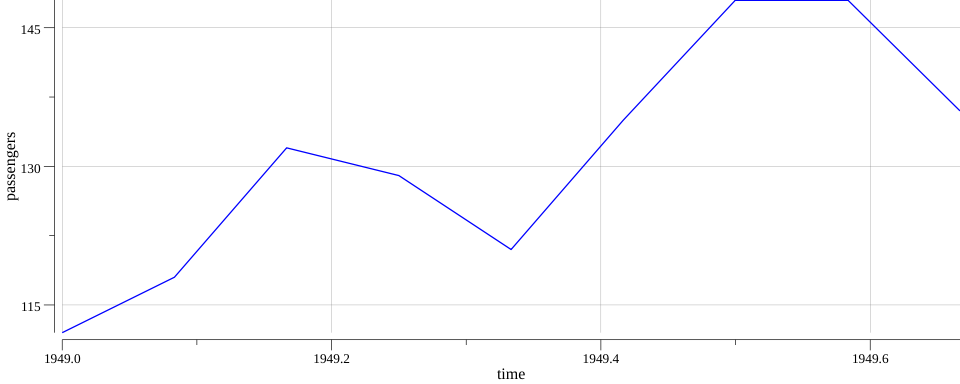
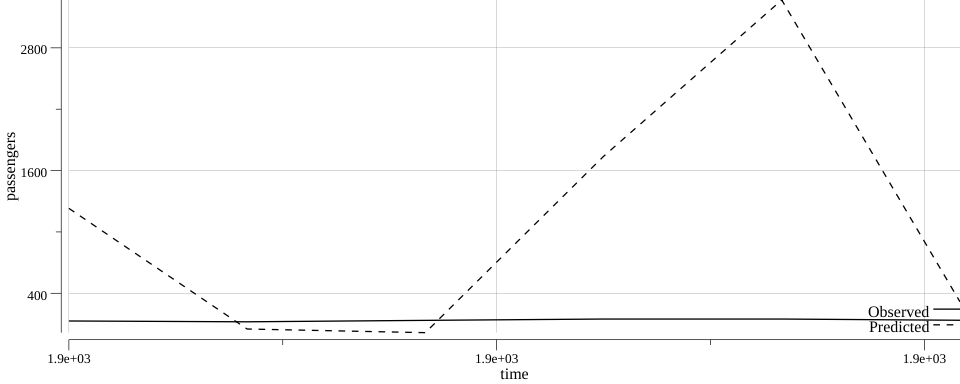
Added fitting and evaluating an ar model

diff --git a/fitting_and_evaluating_an_ar_2_model.go b/fitting_and_evaluating_an_ar_2_model.go
@@ -1,0 +1,220 @@
+package main
+
+import (
+	"encoding/csv"
+	"fmt"
+	"github.com/kniren/gota/dataframe"
+	"github.com/sajari/regression"
+	"gonum.org/v1/plot"
+	"gonum.org/v1/plot/plotter"
+	"gonum.org/v1/plot/vg"
+	"log"
+	"math"
+	"os"
+	"strconv"
+)
+
+func main() {
+
+	// Open the CSV file.
+	passengersFile, err := os.Open("diff_series.csv")
+	if err != nil {
+		log.Fatal(err)
+	}
+	defer passengersFile.Close()
+
+	// Create a dataframe from the CSV file.
+	passengersDF := dataframe.ReadCSV(passengersFile)
+
+	// Get the time and passengers as a slice of floats.
+	passengers := passengersDF.Col("differenced_passengers").Float()
+
+	// Calculate the coefficients for lag 1 and 2 and
+	// our error.
+	coeffs, intercept := autoregressive(passengers, 2)
+
+	// Output the AR(2) model to stdout.
+	fmt.Printf("\nlog(x(t)) - log(x(t-1)) = %0.6f + lag1*%0.6f + lag2*%0.6f\n\n", intercept, coeffs[0], coeffs[1])
+
+	//////////
+
+	// Open the log differenced dataset file.
+	transFile, err := os.Open("diff_series.csv")
+	if err != nil {
+		log.Fatal(err)
+	}
+	defer transFile.Close()
+
+	// Create a CSV reader reading from the opened file.
+	transReader := csv.NewReader(transFile)
+
+	// Read in all of the CSV records
+	transReader.FieldsPerRecord = 2
+	transData, err := transReader.ReadAll()
+	if err != nil {
+		log.Fatal(err)
+	}
+
+	// Loop over the data predicting the transformed
+	// observations.
+	var transPredictions []float64
+	for i, _ := range transData {
+
+		// Skip the header and the first two observations
+		// (because we need two lags to make a prediction).
+		if i == 0 || i == 1 || i == 2 {
+			continue
+		}
+
+		// Parse the first lag.
+		lagOne, err := strconv.ParseFloat(transData[i-1][1], 64)
+		if err != nil {
+			log.Fatal(err)
+		}
+
+		// Parse the second lag.
+		lagTwo, err := strconv.ParseFloat(transData[i-2][1], 64)
+		if err != nil {
+			log.Fatal(err)
+		}
+
+		// Predict the transformed variable with our trained AR model.
+		transPredictions = append(transPredictions, 0.008159+0.234953*lagOne-0.173682*lagTwo)
+	}
+
+	// Open the original dataset file.
+	origFile, err := os.Open("AirPassengers.csv")
+	if err != nil {
+		log.Fatal(err)
+	}
+	defer origFile.Close()
+
+	// Create a CSV reader reading from the opened file.
+	origReader := csv.NewReader(origFile)
+
+	// Read in all of the CSV records
+	origReader.FieldsPerRecord = 2
+	origData, err := origReader.ReadAll()
+	if err != nil {
+		log.Fatal(err)
+	}
+
+	// pts* will hold the values for plotting.
+	ptsObs := make(plotter.XYs, len(transPredictions))
+	ptsPred := make(plotter.XYs, len(transPredictions))
+
+	// Reverse the transformation and calculate the MAE.
+	var mAE float64
+	var cumSum float64
+	for i := 4; i <= len(origData)-1; i++ {
+
+		// Parse the original observation.
+		observed, err := strconv.ParseFloat(origData[i][1], 64)
+		if err != nil {
+			log.Fatal(err)
+		}
+
+		// Parse the original date.
+		date, err := strconv.ParseFloat(origData[i][0], 64)
+		if err != nil {
+			log.Fatal(err)
+		}
+
+		// Get the cumulative sum up to the index in
+		// the transformed predictions.
+		cumSum += transPredictions[i-4]
+
+		// Calculate the reverse transformed prediction.
+		predicted := math.Exp(math.Log(observed) + cumSum)
+
+		// Accumulate the MAE.
+		mAE += math.Abs(observed-predicted) / float64(len(transPredictions))
+
+		// Fill in the points for plotting.
+		ptsObs[i-4].X = date
+		ptsPred[i-4].X = date
+		ptsObs[i-4].Y = observed
+		ptsPred[i-4].Y = predicted
+	}
+
+	// Output the MAE to standard out.
+	fmt.Printf("\nMAE = %0.2f\n\n", mAE)
+
+	// Create the plot.
+	p, err := plot.New()
+	if err != nil {
+		log.Fatal(err)
+	}
+	p.X.Label.Text = "time"
+	p.Y.Label.Text = "passengers"
+	p.Add(plotter.NewGrid())
+
+	// Add the line plot points for the time series.
+	lObs, err := plotter.NewLine(ptsObs)
+	if err != nil {
+		log.Fatal(err)
+	}
+	lObs.LineStyle.Width = vg.Points(1)
+
+	lPred, err := plotter.NewLine(ptsPred)
+	if err != nil {
+		log.Fatal(err)
+	}
+	lPred.LineStyle.Width = vg.Points(1)
+	lPred.LineStyle.Dashes = []vg.Length{vg.Points(5), vg.Points(5)}
+
+	// Save the plot to a PNG file.
+	p.Add(lObs, lPred)
+	p.Legend.Add("Observed", lObs)
+	p.Legend.Add("Predicted", lPred)
+	if err := p.Save(10*vg.Inch, 4*vg.Inch, "passengers_ts.png"); err != nil {
+		log.Fatal(err)
+	}
+
+}
+
+// autoregressive calculates an AR model for a series
+// at a given order.
+func autoregressive(x []float64, lag int) ([]float64, float64) {
+
+	// Create a regresssion.Regression value needed to train
+	// a model using github.com/sajari/regression.
+	var r regression.Regression
+	r.SetObserved("x")
+
+	// Define the current lag and all of the intermediate lags.
+	for i := 0; i < lag; i++ {
+		r.SetVar(i, "x"+strconv.Itoa(i))
+	}
+
+	// Shift the series.
+	xAdj := x[lag:len(x)]
+
+	// Loop over the series creating the data set
+	// for the regression.
+	for i, xVal := range xAdj {
+
+		// Loop over the intermediate lags to build up
+		// our independent variables.
+		laggedVariables := make([]float64, lag)
+		for idx := 1; idx <= lag; idx++ {
+
+			// Get the lagged series variables.
+			laggedVariables[idx-1] = x[lag+i-idx]
+		}
+
+		// Add these points to the regression value.
+		r.Train(regression.DataPoint(xVal, laggedVariables))
+	}
+
+	// Fit the regression.
+	r.Run()
+
+	// coeff hold the coefficients for our lags.
+	var coeff []float64
+	for i := 1; i <= lag; i++ {
+		coeff = append(coeff, r.Coeff(i))
+	}
+
+	return coeff, r.Coeff(0)
+}
